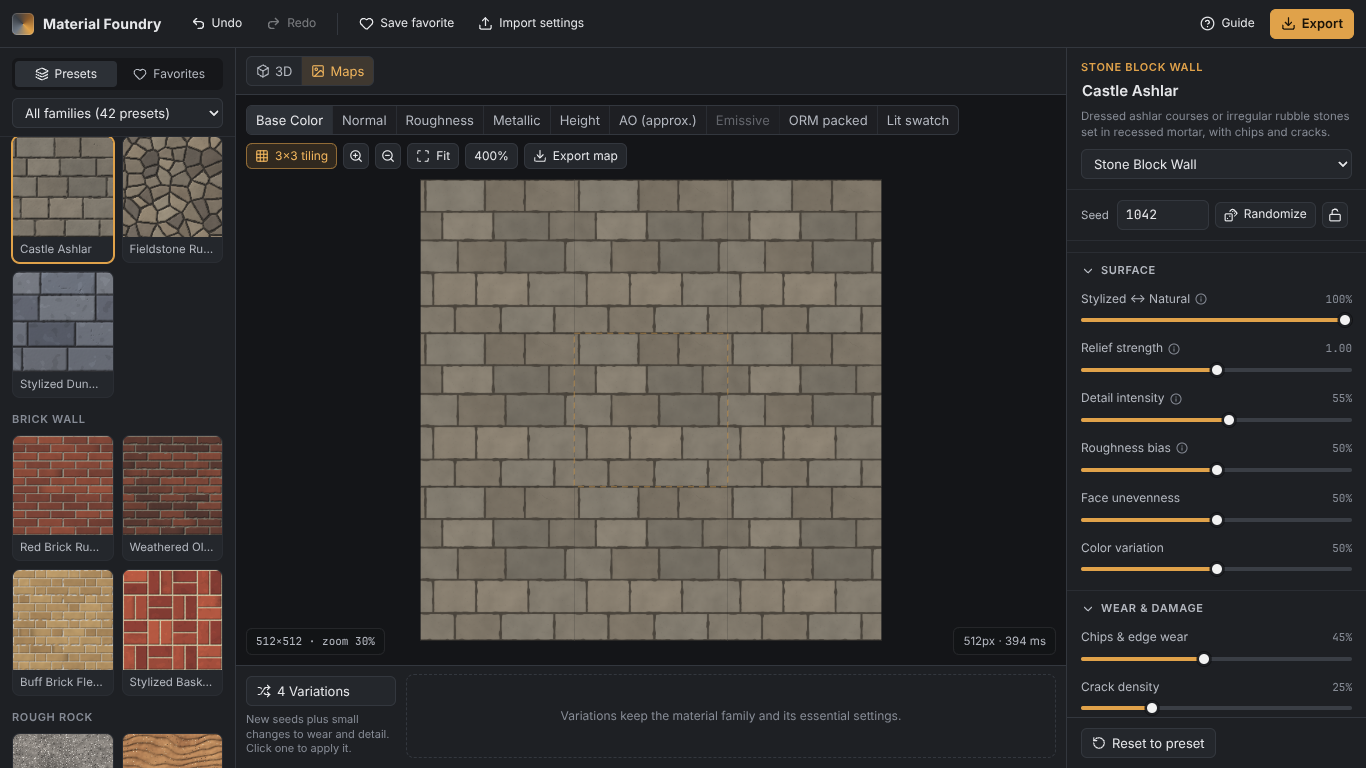
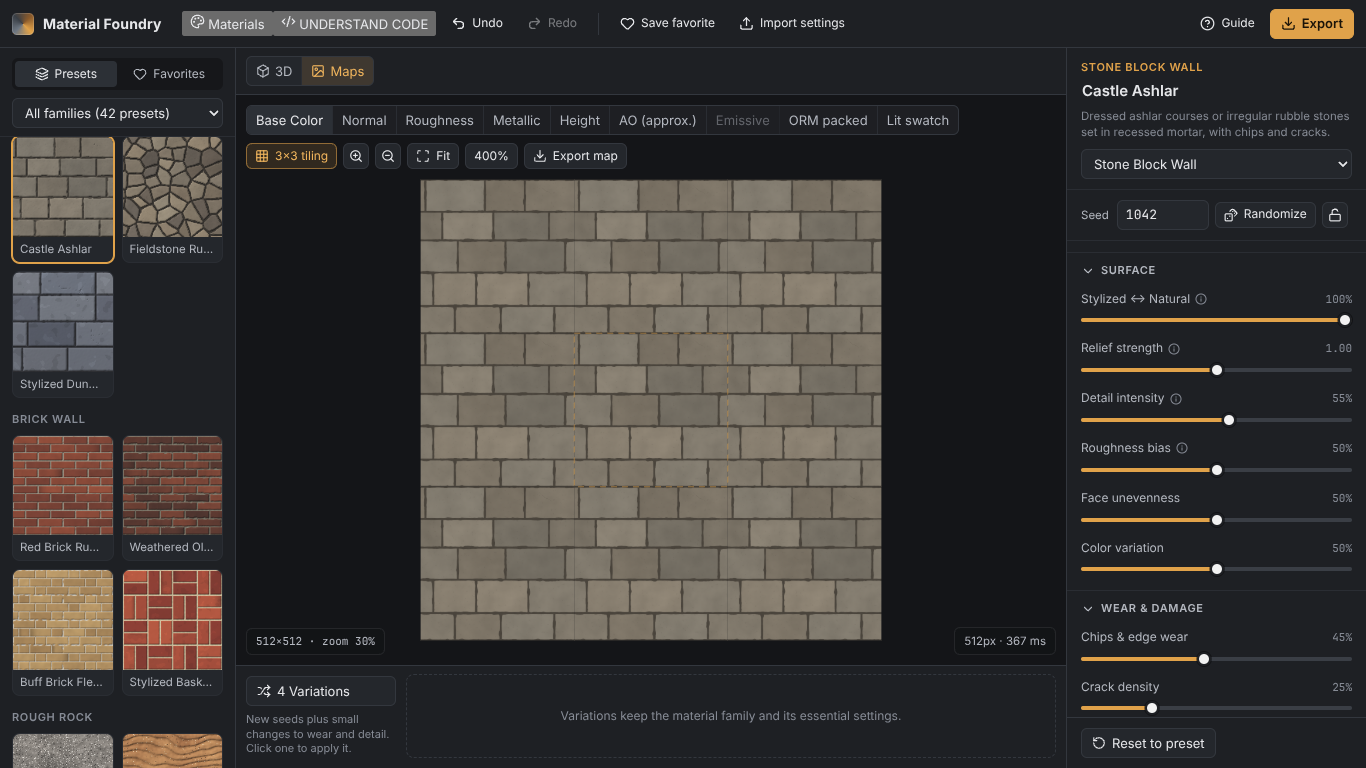
Understand Code: verification (124 unit tests, 55-check offline browser e2e, materials e2e 39/39), UI polish, docs
Claude-Session: https://claude.ai/code/session_01QX6Ukijqp8HMiR5V1hPExT

diff --git a/material-foundry/src/code/ui/CodeModule.tsx b/material-foundry/src/code/ui/CodeModule.tsx
@@ -129,6 +129,19 @@ export default function CodeModule() {
     w.__mf = { ...(w.__mf ?? {}), code: useCode, workspace, codeClient: getCodeClient() };
   }, [init]);
 
+  // Close the small pop-up panels when clicking anywhere else.
+  useEffect(() => {
+    if (!showSettings && !showKeys) return;
+    const onDown = (e: MouseEvent) => {
+      const t = e.target as HTMLElement;
+      if (t.closest('.popover') || t.closest('[data-testid=reading-settings]') || t.closest('[data-testid=show-shortcuts]')) return;
+      setShowSettings(false);
+      setShowKeys(false);
+    };
+    document.addEventListener('mousedown', onDown);
+    return () => document.removeEventListener('mousedown', onDown);
+  }, [showSettings, showKeys]);
+
   // Keyboard shortcuts (ignored while typing in a field or when a dialog is open).
   useEffect(() => {
     const onKey = async (e: KeyboardEvent) => {
@@ -213,8 +226,8 @@ export default function CodeModule() {
           <button className="btn small ghost" onClick={() => setShowKeys((v) => !v)} aria-expanded={showKeys} data-testid="show-shortcuts">
             <Keyboard size={14} /> Keys
           </button>
-          <button className="btn small ghost" onClick={() => setShowSettings((v) => !v)} aria-expanded={showSettings} data-testid="reading-settings">
-            Aa Reading comfort
+          <button className="btn small ghost" onClick={() => setShowSettings((v) => !v)} aria-expanded={showSettings} data-testid="reading-settings" title="Reading comfort: colours, text size, line spacing">
+            Aa Comfort
           </button>
           {showSettings ? <Settings onClose={() => setShowSettings(false)} /> : null}
           {showKeys ? (

diff --git a/material-foundry/scripts/e2e-code.ts b/material-foundry/scripts/e2e-code.ts
@@ -3,7 +3,7 @@
 // screenshots to verification/code/ and a report to verification/e2e-code-report.json.
 
 import { spawn, type ChildProcess } from 'node:child_process';
-import { mkdirSync, writeFileSync } from 'node:fs';
+import { mkdirSync, rmSync, writeFileSync } from 'node:fs';
 import { join } from 'node:path';
 import { chromium, type Page } from '@playwright/test';
 import { SAMPLES } from '../tests/codeSamples';
@@ -44,6 +44,7 @@ async function clickText(page: Page, line: number, text: string) {
 }
 
 async function main() {
+  rmSync(SHOTS, { recursive: true, force: true });
   mkdirSync(SHOTS, { recursive: true });
   const server = await startServer();
   const browser = await chromium.launch();
@@ -249,9 +250,12 @@ async function main() {
     await page.getByTestId('view-code').click();
     check('Light theme and bigger text', (await page.locator('.cm.theme-light').count()) === 1 && (await code(page, 's.prefs.fontSize')) === 17);
     await shot(page, '10-light-theme');
+    check('Comfort panel closes when clicking elsewhere', (await page.locator('.popover').count()) === 0);
+    await page.getByTestId('reading-settings').click();
     await page.getByTestId('font-smaller').click();
     await page.getByTestId('font-smaller').click();
     await page.getByTestId('theme-dark').click();
+    await page.keyboard.press('Escape');
 
     // ---- opening many languages, unknown and binary files, without running anything
     await page.getByTestId('close-project').click();

diff --git a/material-foundry/src/code/ui/code.css b/material-foundry/src/code/ui/code.css
@@ -440,6 +440,7 @@
 .cm-tabs {
   position: relative;
   display: flex;
+  flex-wrap: nowrap;
   align-items: center;
   gap: 2px;
   padding: 6px 8px 0;
@@ -448,11 +449,12 @@
 }
 
 .cm-tabs [role='tab'] {
+  white-space: nowrap;
   display: inline-flex;
   align-items: center;
   gap: 6px;
   height: 34px;
-  padding: 0 12px;
+  padding: 0 10px;
   border: 0;
   border-bottom: 3px solid transparent;
   background: transparent;

diff --git a/material-foundry/VERIFICATION.md b/material-foundry/VERIFICATION.md
@@ -160,3 +160,57 @@ axis, gentle ring wander and knots that deflect the grain); arcane borders glowi
 now); polka-dot concrete pores and aggregate; uniform granite specks (now mixed dark/light grains); confetti-like
 gravel (rotated, irregular pebbles); concrete presets that looked alike (stronger formwork, distinct tones);
 weathered knots rendered as dark dots.
+
+## 6. UNDERSTAND CODE (third iteration)
+
+All commands below were run in the test container (4 cores, Chromium 141 headless shell from Playwright 1.56.1).
+
+### Unit tests — 124 in total, all passing (`npm test`, 10 files)
+
+70 of them are new and cover the code module:
+
+* `tests/code-languages.test.ts` (39): detection by extension, file name, shebang and content (incl. `.h` C vs C++,
+  unknown → plain text, binary detection); every language opens with the expected analysis depth, valid samples
+  report no syntax problems and a word can be explained (28 sample files, one per language/format); functions are
+  found in every full-structure language; Swift/Lua word-level symbols; invalid Python/JS/Lua report problems
+  without crashing; empty and Unicode files; a 24,000-line file opens in a few seconds, and a file above
+  3,000,000 characters falls back to plain text.
+* `tests/code-explain.test.ts` (14): scope-aware definitions/references (a variable with the same name in another
+  function is not linked), functions (parameters, defaults, return values, docstring, flow), brackets with partners,
+  operators with both sides, keywords; five different explanation levels for six element types; "I don't
+  understand" gives a different wording each time; name-based links are never marked *Verified*; go-to-definition
+  data; the example project's dependency graph, entry point and overview; import resolution for TS/Python/C/HTML;
+  knowledge base integrity (103 ideas × 5 levels) and that **every concept produced by clicking every character of
+  all 28 samples** exists; a static scan that `src/code` contains no network calls; opening a file with side
+  effects does not execute it.
+* `tests/code-workspace.test.ts` (17): diff (minimal changes, side by side, 60,000-line worst case under 5 s);
+  proposals (value change, invalid input refused, cross-file rename only across imports with warnings for
+  unrelated same-name code, keywords/invalid names refused, local rename stays in its function, switching a Python
+  line off adds `pass` and still parses, a breaking edit is detected by the syntax check, stale selections refused);
+  workspace (restore point before every change, originals untouched, undo/redo, restore and revert are undoable,
+  save keeps the old original, session persistence and corrupt storage ignored).
+
+### Browser end-to-end — `npm run e2e:code` (55 checks, all passing)
+
+Every request that does not go to the local preview server is aborted for the whole session; the report confirms
+no request was attempted. Report: `verification/e2e-code-report.json`; screenshots: `verification/code/`.
+
+Covered: opening the module from the top bar and returning to Materials; the example project's explanation and
+starting point; clicking a variable, function, operator, keyword and bracket; the five levels (all different,
+remembered after a reload together with the workspace); level-5 exercise; flowchart and function diagrams;
+"I don't understand" and "Show me with an example"; show every use; go to definition within a file and across
+files; keyboard navigation and level keys; the what-if flow (preview diff, risks, nothing changed before
+confirming, apply disabled until the acknowledgement, restore point created, original kept, changed lines marked),
+detection of a breaking edit, a cross-file rename; undo/redo (buttons and Ctrl+Z), going back to a restore point,
+ZIP download; project map; glossary; light theme and text size; opening 30 files at once (28 languages and formats
+detected correctly, a PNG listed but not opened, a script containing `alert()` opened without running it); search
+inside the code; a 24,000-line file (about 5 s to open, only ~54 line elements in the page) and clicking deep
+inside it; working with the network switched off; no page or console errors.
+
+**Problem found and fixed during this run:** after all grammars had been used, the tab crashed a few seconds later
+with `V8 process OOM (Zone)` in Chromium's log. Testing every grammar alone (15 s wait each) showed that only the
+Tree-sitter **Swift** grammar triggers it; the other 18 grammars passed individually. Swift now uses the word-level
+analyser, and grammars are additionally spread over a pool of analysis workers (at most 7 per worker; 3 workers
+for all 18). The e2e checks that the page stays alive 15 s after loading every grammar.
+
+The material studio suite (`npm run e2e`) was re-run on the same build: **39 passed, 0 failed**.

diff --git a/material-foundry/docs/UNDERSTAND_CODE.md b/material-foundry/docs/UNDERSTAND_CODE.md
@@ -49,7 +49,7 @@ service and no API key involved.
 8. **Changes** lists changed files (compare side by side, *Back to original*), the history (undo/redo), restore
    points, and lets you download the changed files or the whole workspace as a ZIP, or save to the opened folder.
 9. **Ideas A–Z**: all 103 ideas of the built-in knowledge base, each at five levels.
-10. **Reading comfort**: dark/light colours, text size 12–24, roomy line spacing. **Keys** lists the keyboard
+10. **Aa Comfort** (reading comfort): dark/light colours, text size 12–24, roomy line spacing. **Keys** lists the keyboard
     shortcuts (arrow keys move from word to word in the code).
 
 ## Supported languages and what the app really understands
